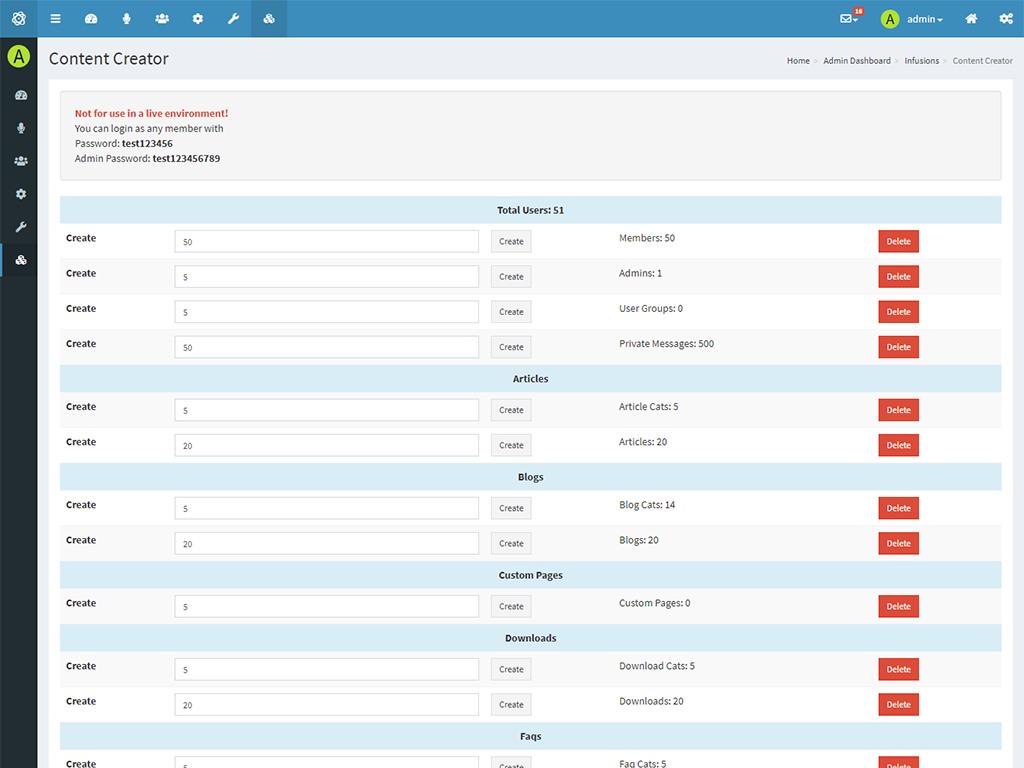
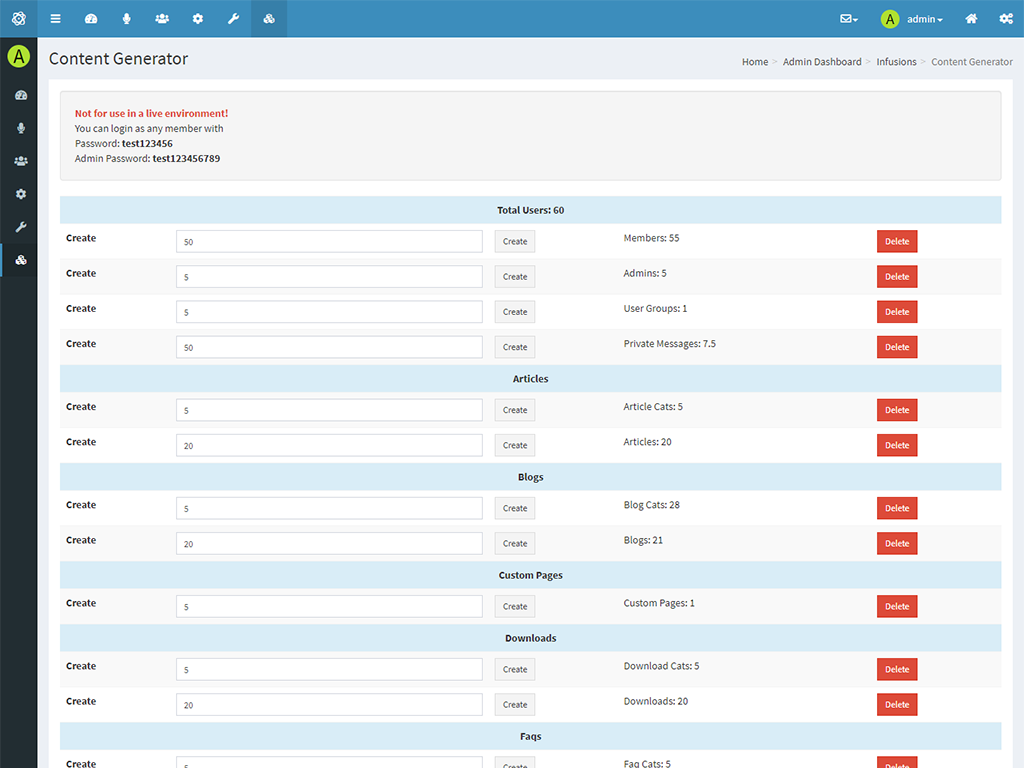
Update content generator

diff --git a/infusions/content_generator/locale/Polish.php b/infusions/content_generator/locale/Polish.php
@@ -15,8 +15,8 @@
 | copyright header is strictly prohibited without
 | written permission from the original author(s).
 +--------------------------------------------------------*/
-$locale['cg_title'] = 'Content generator';
-$locale['cg_desc'] = 'Łatwy Content generator dla programistów.';
+$locale['cg_title'] = 'Content Generator';
+$locale['cg_desc'] = 'Łatwy Content Generator dla programistów.';
 $locale['cg_001'] = 'Utwórz';
 $locale['cg_002'] = 'Elementy zostały usunięte.';
 $locale['cg_003'] = 'Elementy zostały utworzone.';

diff --git a/infusions/content_generator/locale/English.php b/infusions/content_generator/locale/English.php
@@ -15,8 +15,8 @@
 | copyright header is strictly prohibited without
 | written permission from the original author(s).
 +--------------------------------------------------------*/
-$locale['cg_title'] = 'Content generator';
-$locale['cg_desc'] = 'Simple Content generator for developers.';
+$locale['cg_title'] = 'Content Generator';
+$locale['cg_desc'] = 'Simple Content Generator for developers.';
 $locale['cg_001'] = 'Create';
 $locale['cg_002'] = 'Items has been deleted.';
 $locale['cg_003'] = 'Items has been created.';

diff --git a/infusions/content_generator/README.md b/infusions/content_generator/README.md
@@ -1,5 +1,5 @@
 # Content Generator
-Simple Content generator for PHPFusion 9
+Simple Content Generator for PHPFusion 9
 
 ![Version](https://img.shields.io/badge/Version-1.1.6-blue.svg)
 
